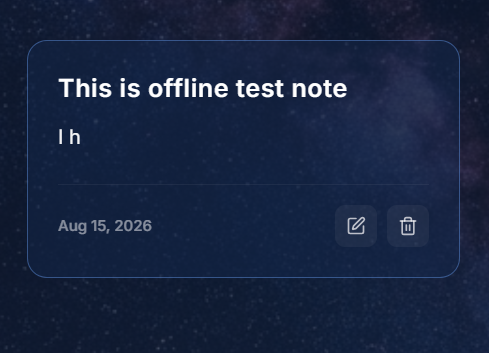
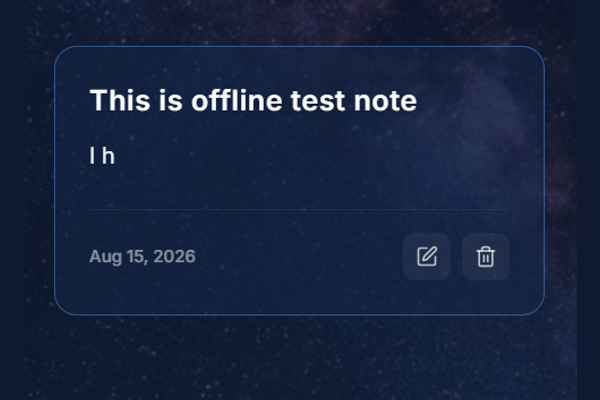
security updates

diff --git a/backend/src/controllers/note.controller.js b/backend/src/controllers/note.controller.js
@@ -7,10 +7,41 @@ export const syncNotes = async (req, res) => {
   const { lastSyncedAt, localChanges } = req.body;
 
   try {
-    if (localChanges && localChanges.length > 0) {
+    if (Array.isArray(localChanges) && localChanges.length > 0) {
+      const ids = [];
+      for (const localNote of localChanges) {
+        if (
+          !localNote ||
+          typeof localNote.id !== "string" ||
+          localNote.id.length === 0 ||
+          localNote.id.length > 64
+        ) {
+          return res.status(400).json({ message: "Invalid note id" });
+        }
+        if (isNaN(new Date(localNote.updated_at).getTime())) {
+          return res.status(400).json({ message: "Invalid updated_at" });
+        }
+        ids.push(localNote.id);
+      }
+
+      const existingNotes = await Note.find({ _id: { $in: ids } })
+        .select("_id user_id updated_at")
+        .lean();
+
+      const foreign = existingNotes.find(
+        (n) => String(n.user_id) !== String(userId),
+      );
+      if (foreign) {
+        return res
+          .status(403)
+          .json({ message: "One or more notes do not belong to you" });
+      }
+
+      const serverById = new Map(existingNotes.map((n) => [n._id, n]));
+
       for (const localNote of localChanges) {
         const cleanContent = await processHtmlImages(localNote.content);
-        const serverNote = await Note.findById(localNote.id);
+        const serverNote = serverById.get(localNote.id);
 
         if (!serverNote) {
           await Note.create({
@@ -28,14 +59,19 @@ export const syncNotes = async (req, res) => {
           const serverTime = new Date(serverNote.updated_at).getTime();
 
           if (localTime > serverTime) {
-            await Note.findByIdAndUpdate(localNote.id, {
-              title: localNote.title,
-              content: cleanContent,
-              iv_title: localNote.iv_title,
-              iv_content: localNote.iv_content,
-              updated_at: new Date(localNote.updated_at),
-              is_deleted: localNote.is_deleted,
-            });
+            await Note.updateOne(
+              { _id: localNote.id, user_id: userId },
+              {
+                $set: {
+                  title: localNote.title,
+                  content: cleanContent,
+                  iv_title: localNote.iv_title,
+                  iv_content: localNote.iv_content,
+                  updated_at: new Date(localNote.updated_at),
+                  is_deleted: localNote.is_deleted,
+                },
+              },
+            );
           }
         }
       }
@@ -65,8 +101,11 @@ export const syncNotes = async (req, res) => {
       timestamp: new Date().toISOString(),
     });
   } catch (error) {
-    console.error("Sync Error:", error);
-    res.status(500).json({ message: "Server sync failed" });
+    if (error.code === 11000) {
+      return res.status(403).json({ message: "Note does not belong to you" });
+    }
+    console.error("Error in background sync upsert:", error);
+    res.status(500).json({ message: "Server Error" });
   }
 };
 
